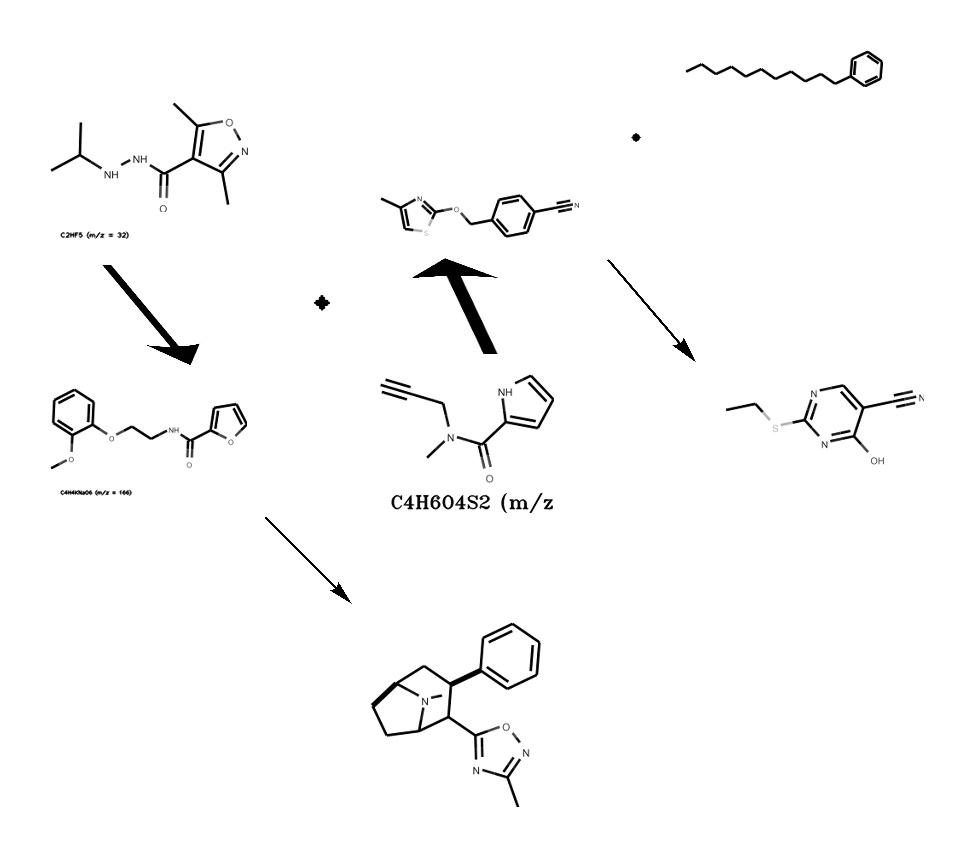
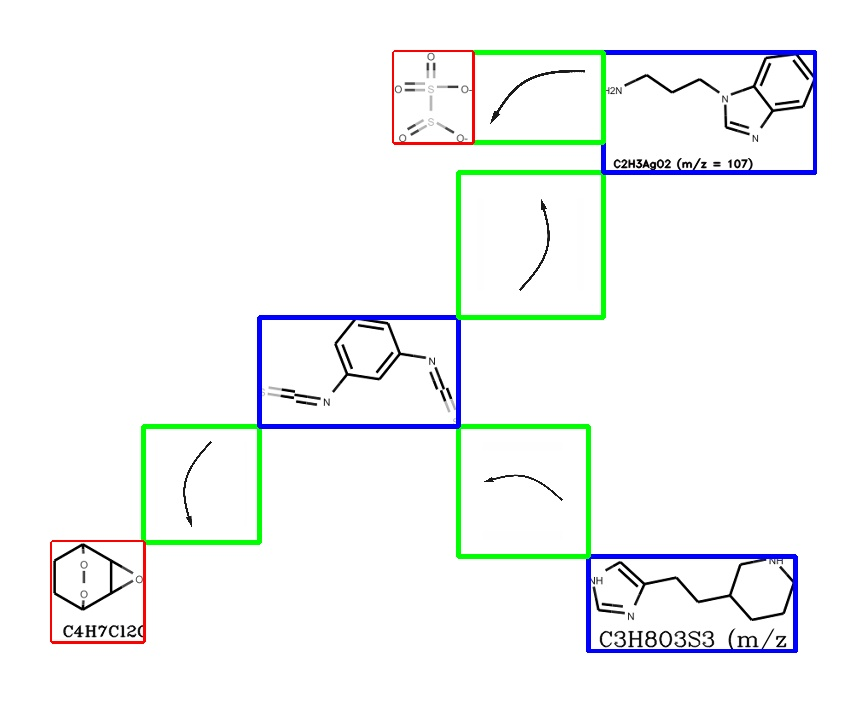
text to image methode is working and draw plus uses it affectivly

diff --git a/datasetGeneration/generation.py b/datasetGeneration/generation.py
@@ -1,5 +1,7 @@
 import cv2
 import numpy as np
+from PIL import ImageFont, ImageDraw, Image#
+import os
 
 formules = [
     "BH3",
@@ -135,6 +137,48 @@ transformations = {
 # plus where arrows could be
 #
 
+def text_to_image(text, font_path, font_size=40, text_color=(0, 0, 0)):
+    font = ImageFont.truetype(font_path, font_size)
+
+    # Textgröße berechnen mit getbbox
+    bbox = font.getbbox(text)
+    width = bbox[2] - bbox[0]
+    height = bbox[3] - bbox[1]
+
+    # Neues Bild in passender Größe
+    img = Image.new("RGB", (width, height), (255, 255, 255, 0))
+    draw = ImageDraw.Draw(img)
+
+    # Text zeichnen (ggf. y-offset wegen negativer bbox)
+    draw.text((-bbox[0], -bbox[1]), text, font=font, fill=text_color)
+
+    return np.array(img)
+
+
+def center_image_on_canvas(image, canvas_width, canvas_height):
+    h, w = image.shape[:2]
+
+
+    if h/w > canvas_height/canvas_width:
+        # image is taller than canvas
+        new_width = int(canvas_height * w / h)
+        new_height = canvas_height
+        hight_offset = 0
+        width_offset = int((canvas_width - new_width) / 2)
+    else:
+        new_width = canvas_width
+        new_height = int(canvas_width * h / w)
+        hight_offset = int((canvas_height - new_height) / 2)
+        width_offset = 0
+
+    image = cv2.resize(image, (new_width, new_height))
+    canvas =  np.ones((canvas_height, canvas_width, 4), dtype=np.uint8)
+
+
+    canvas[hight_offset:hight_offset + new_height, width_offset:width_offset + new_width] = image
+
+    return canvas
+
 def draw_arrow(collage_image, collage_masque, x_between, y_between, h_between, w_between, direction, numFleche):
     # load the random arrow in the right direction
     angle = transformations[directions[direction]]  # gives the number of degrees depending on the direction
@@ -154,8 +198,8 @@ def draw_arrow(collage_image, collage_masque, x_between, y_between, h_between, w
     new_width = max(1, w_between - 2 * x_margin)
     new_height = max(1, h_between - 2 * y_margin)
 
-    fleche = cv2.resize(fleche, (new_width, new_height))
-    masque = cv2.resize(masque, (new_width, new_height))
+    fleche = center_image_on_canvas(fleche, new_width, new_height)
+    masque = center_image_on_canvas(masque, new_width, new_height)
 
 
     # draw the arrow on the collage considering the opacity of the image
@@ -224,11 +268,20 @@ def draw_frames(collage_image, x, y, img_width, img_height):
         cv2.line(collage_image, bottom_right, (bottom_right[0] - length, bottom_right[1]), color, thickness)
 
 def draw_plus(collage_image, x_between, y_between, h_between, w_between):
-    my, mx = round( y_between + 0.5 * h_between) , round(x_between + 0.5 * w_between)
-    font = np.random.randint(1, 7)
-    font_scale = np.random.randint(3, 10) / 10
+    font_scale = np.random.randint(20, 50)
+    h_text, w_text = -1, -1
 
-    cv2.putText(collage_image, "+", (mx, my), font, font_scale, (0, 0, 0), 3, cv2.LINE_AA)
+    while h_buffer < 0 or w_buffer < 0 :
+        font_scale = round(font_scale / 1,5)
+        text = text_to_image("+", "RozhaOne-Regular.ttf", font_scale)
+        h_text, w_text, _ = text.shape
+        h_buffer = round((h_between - h_text) / 2)
+        w_buffer = round((w_between - w_text) / 2)
+
+    collage_image[y_between + h_buffer:y_between+h_text+ h_buffer, x_between + w_buffer : x_between+w_text+ w_buffer ] = text
+
+
+
 def init(collage_width, collage_height):
     # Create a blank white canvas for the collage
     collage_image = np.zeros((collage_height, collage_width, 3), dtype=np.uint8)
@@ -353,7 +406,7 @@ def end_changes(collage_image, collage_masque):
 
     return collage_image, collage_masque
 
-def calculate_space_between(x_new, y_new, direction, buffer_between_pictures, x_starter, y_starter, w_starter, h_starter, img_height, img_width):
+def calculate_space_between(collage_image, x_new, y_new, direction, buffer_between_pictures, x_starter, y_starter, w_starter, h_starter, img_height, img_width):
     x_between, y_between = 0, 0
 
     h_between = min(img_height, h_starter)
@@ -377,12 +430,12 @@ def calculate_space_between(x_new, y_new, direction, buffer_between_pictures, x_
     if directions[direction][0] == 0:
         y_between = y_starter
 
-    #cv2.rectangle(collage_image, (x_starter, y_starter + h_starter), (x_starter + w_starter, y_starter),
-    #              (255, 0, 0), 3)
-    #cv2.rectangle(collage_image, (x_between, y_between + h_between), (x_between + w_between, y_between),
-    #              (0, 255, 0), 3)
-    #cv2.rectangle(collage_image, (x_new, y_new + img_height), (x_new + img_width, y_new),
-    #              (0, 0, 255), 3)
+    cv2.rectangle(collage_image, (x_starter, y_starter + h_starter), (x_starter + w_starter, y_starter),
+                  (255, 0, 0), 3)
+    cv2.rectangle(collage_image, (x_between, y_between + h_between), (x_between + w_between, y_between),
+                  (0, 255, 0), 3)
+    cv2.rectangle(collage_image, (x_new, y_new + img_height), (x_new + img_width, y_new),
+                  (0, 0, 255), 3)
 
     return x_between, y_between, h_between, w_between
 
@@ -422,19 +475,13 @@ def create_random_box(image_paths, collage_width, collage_height):
 
 
             # calculate the space between the two pictures
-            x_between, y_between, h_between, w_between = calculate_space_between(x_new, y_new, direction, buffer_between_pictures, x_starter, y_starter, w_starter, h_starter, img_height, img_width)
-
-
+            x_between, y_between, h_between, w_between = calculate_space_between(collage_image, x_new, y_new, direction, buffer_between_pictures, x_starter, y_starter, w_starter, h_starter, img_height, img_width)
 
             # draw the arrows or plus
             if np.random.randint(0, 10) == 0:
                 draw_plus(collage_image, x_between, y_between,  h_between, w_between)
             else :
                 draw_arrow(collage_image, collage_masque, x_between, y_between, h_between, w_between, direction, numFleche)
-
-
-
-
 
 
         # We calculate the size of the image to be pasted. In theory, this shouldn't change anything, as we've made sure that the image can be pasted in its entirety.

diff --git a/datasetGeneration/trying stuff.py b/datasetGeneration/trying stuff.py
@@ -3,6 +3,7 @@ import cv2
 from datasetGeneration.generation import create_random_box
 
 if __name__ == "__main__":
+
     for k in range(10):
 
         # List of image paths
